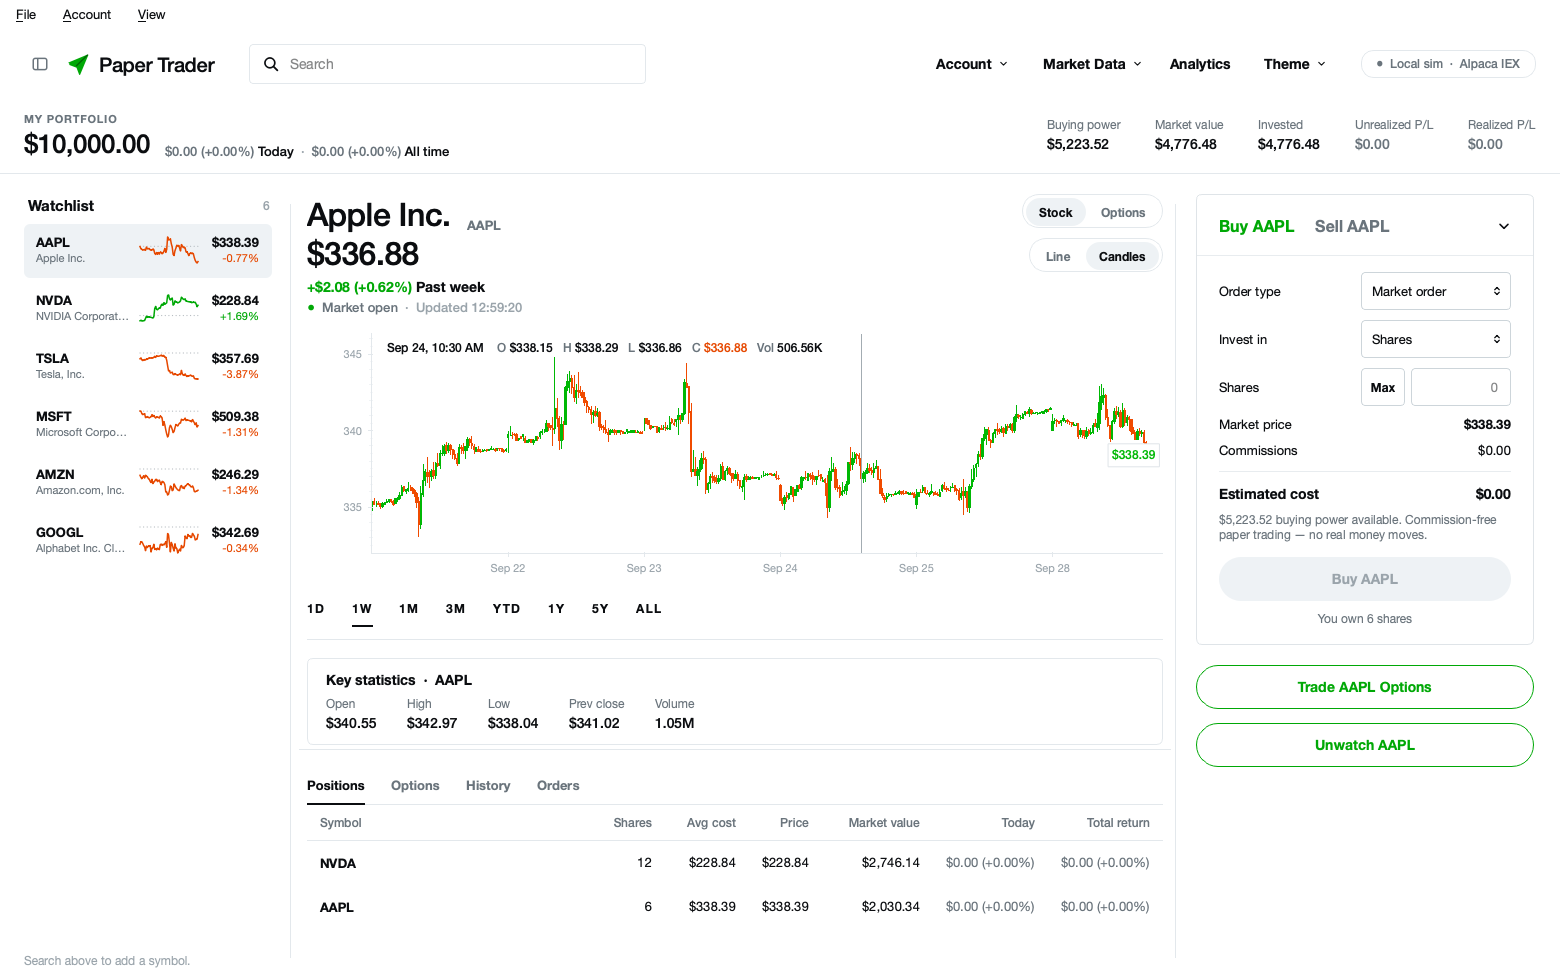
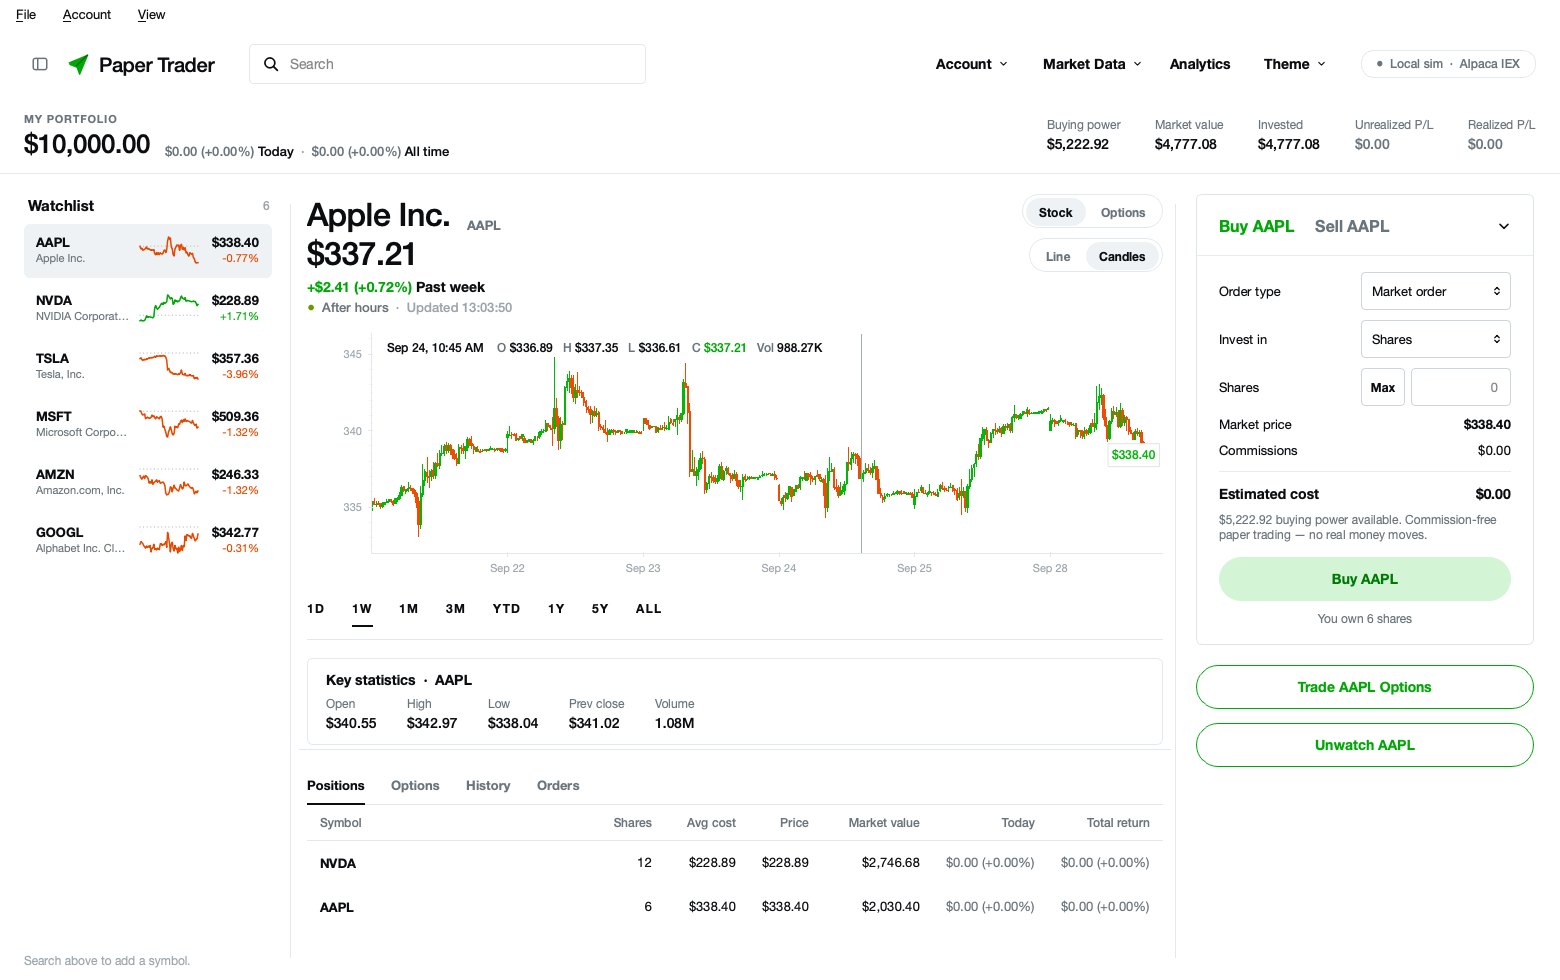
Keep the order pill in its accent colour before an order is valid
Like the reference, whose pill is never grey: the disabled Buy/Sell pill
is now its accent dimmed (dark green/orange with accent text; pale in
light mode) instead of flat grey, so the card reads the same before and
after an amount is entered. The classic stylesheet is unchanged.
Screenshots refreshed.

diff --git a/paper_trader/ui/theme.py b/paper_trader/ui/theme.py
@@ -63,6 +63,12 @@ PALETTES: dict[str, dict[str, str]] = {
         "buy_text": "#000000",
         "sell": "#ff5000",
         "sell_text": "#000000",
+        # The order pill before an order is valid: its accent, dimmed — the
+        # reference's pill is never grey.
+        "buy_idle": "#0c3d10",
+        "buy_idle_text": "#00c805",
+        "sell_idle": "#4a1a05",
+        "sell_idle_text": "#ff5000",
         "disabled_bg": "#26292c",
         "disabled_text": "#6b7275",
         "scrollbar": "#2b2e31",
@@ -118,6 +124,10 @@ PALETTES: dict[str, dict[str, str]] = {
         "buy_text": "#000000",
         "sell": "#ff5000",
         "sell_text": "#000000",
+        "buy_idle": "#d4f5d5",
+        "buy_idle_text": "#007a04",
+        "sell_idle": "#ffe0d1",
+        "sell_idle_text": "#b83900",
         "disabled_bg": "#eef2f5",
         "disabled_text": "#9aa4ab",
         "scrollbar": "#cdd5da",
@@ -384,13 +394,14 @@ QPushButton#BuyButton {
 QPushButton#BuyButton:hover { background-color: $green_hover; }
 QPushButton#BuyButton[accent="down"] { background-color: $sell; color: $sell_text; }
 QPushButton#BuyButton[accent="down"]:hover { background-color: $red_hover; }
-QPushButton#BuyButton:disabled { background-color: $disabled_bg; color: $disabled_text; }
+QPushButton#BuyButton:disabled { background-color: $buy_idle; color: $buy_idle_text; }
+QPushButton#BuyButton[accent="down"]:disabled { background-color: $sell_idle; color: $sell_idle_text; }
 QPushButton#SellButton {
     background-color: $sell; color: $sell_text; border: none;
     border-radius: 22px; padding: 0 18px; font-size: 14px; font-weight: 700;
 }
 QPushButton#SellButton:hover { background-color: $red_hover; }
-QPushButton#SellButton:disabled { background-color: $disabled_bg; color: $disabled_text; }
+QPushButton#SellButton:disabled { background-color: $sell_idle; color: $sell_idle_text; }
 
 /* Outlined pills under the card ("Trade AAPL Options", "Watch AAPL"). */
 QPushButton#Outline {
